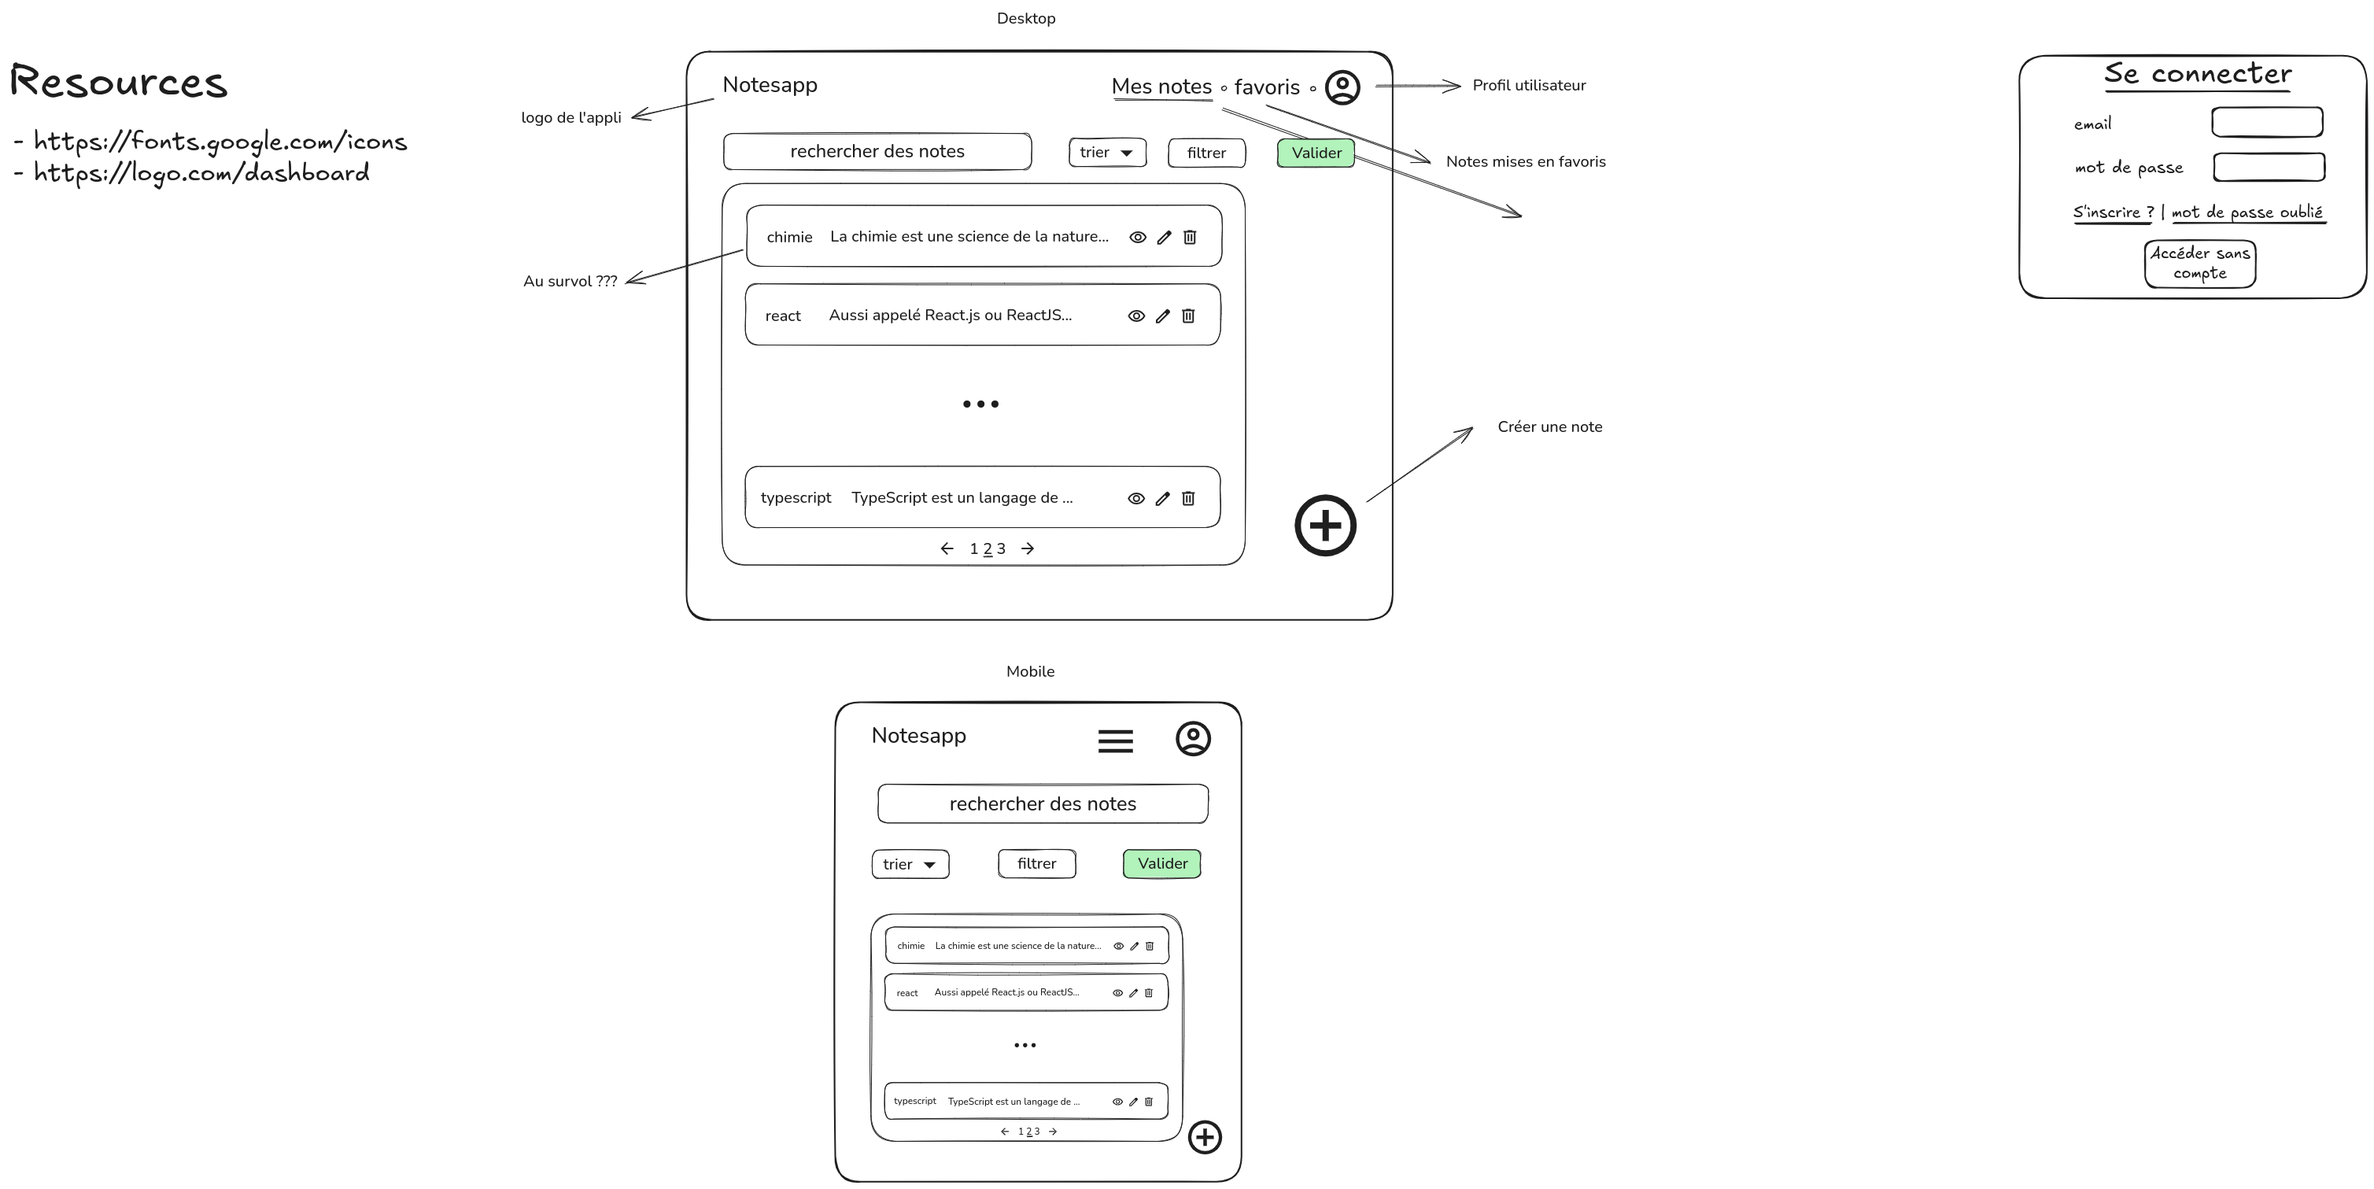
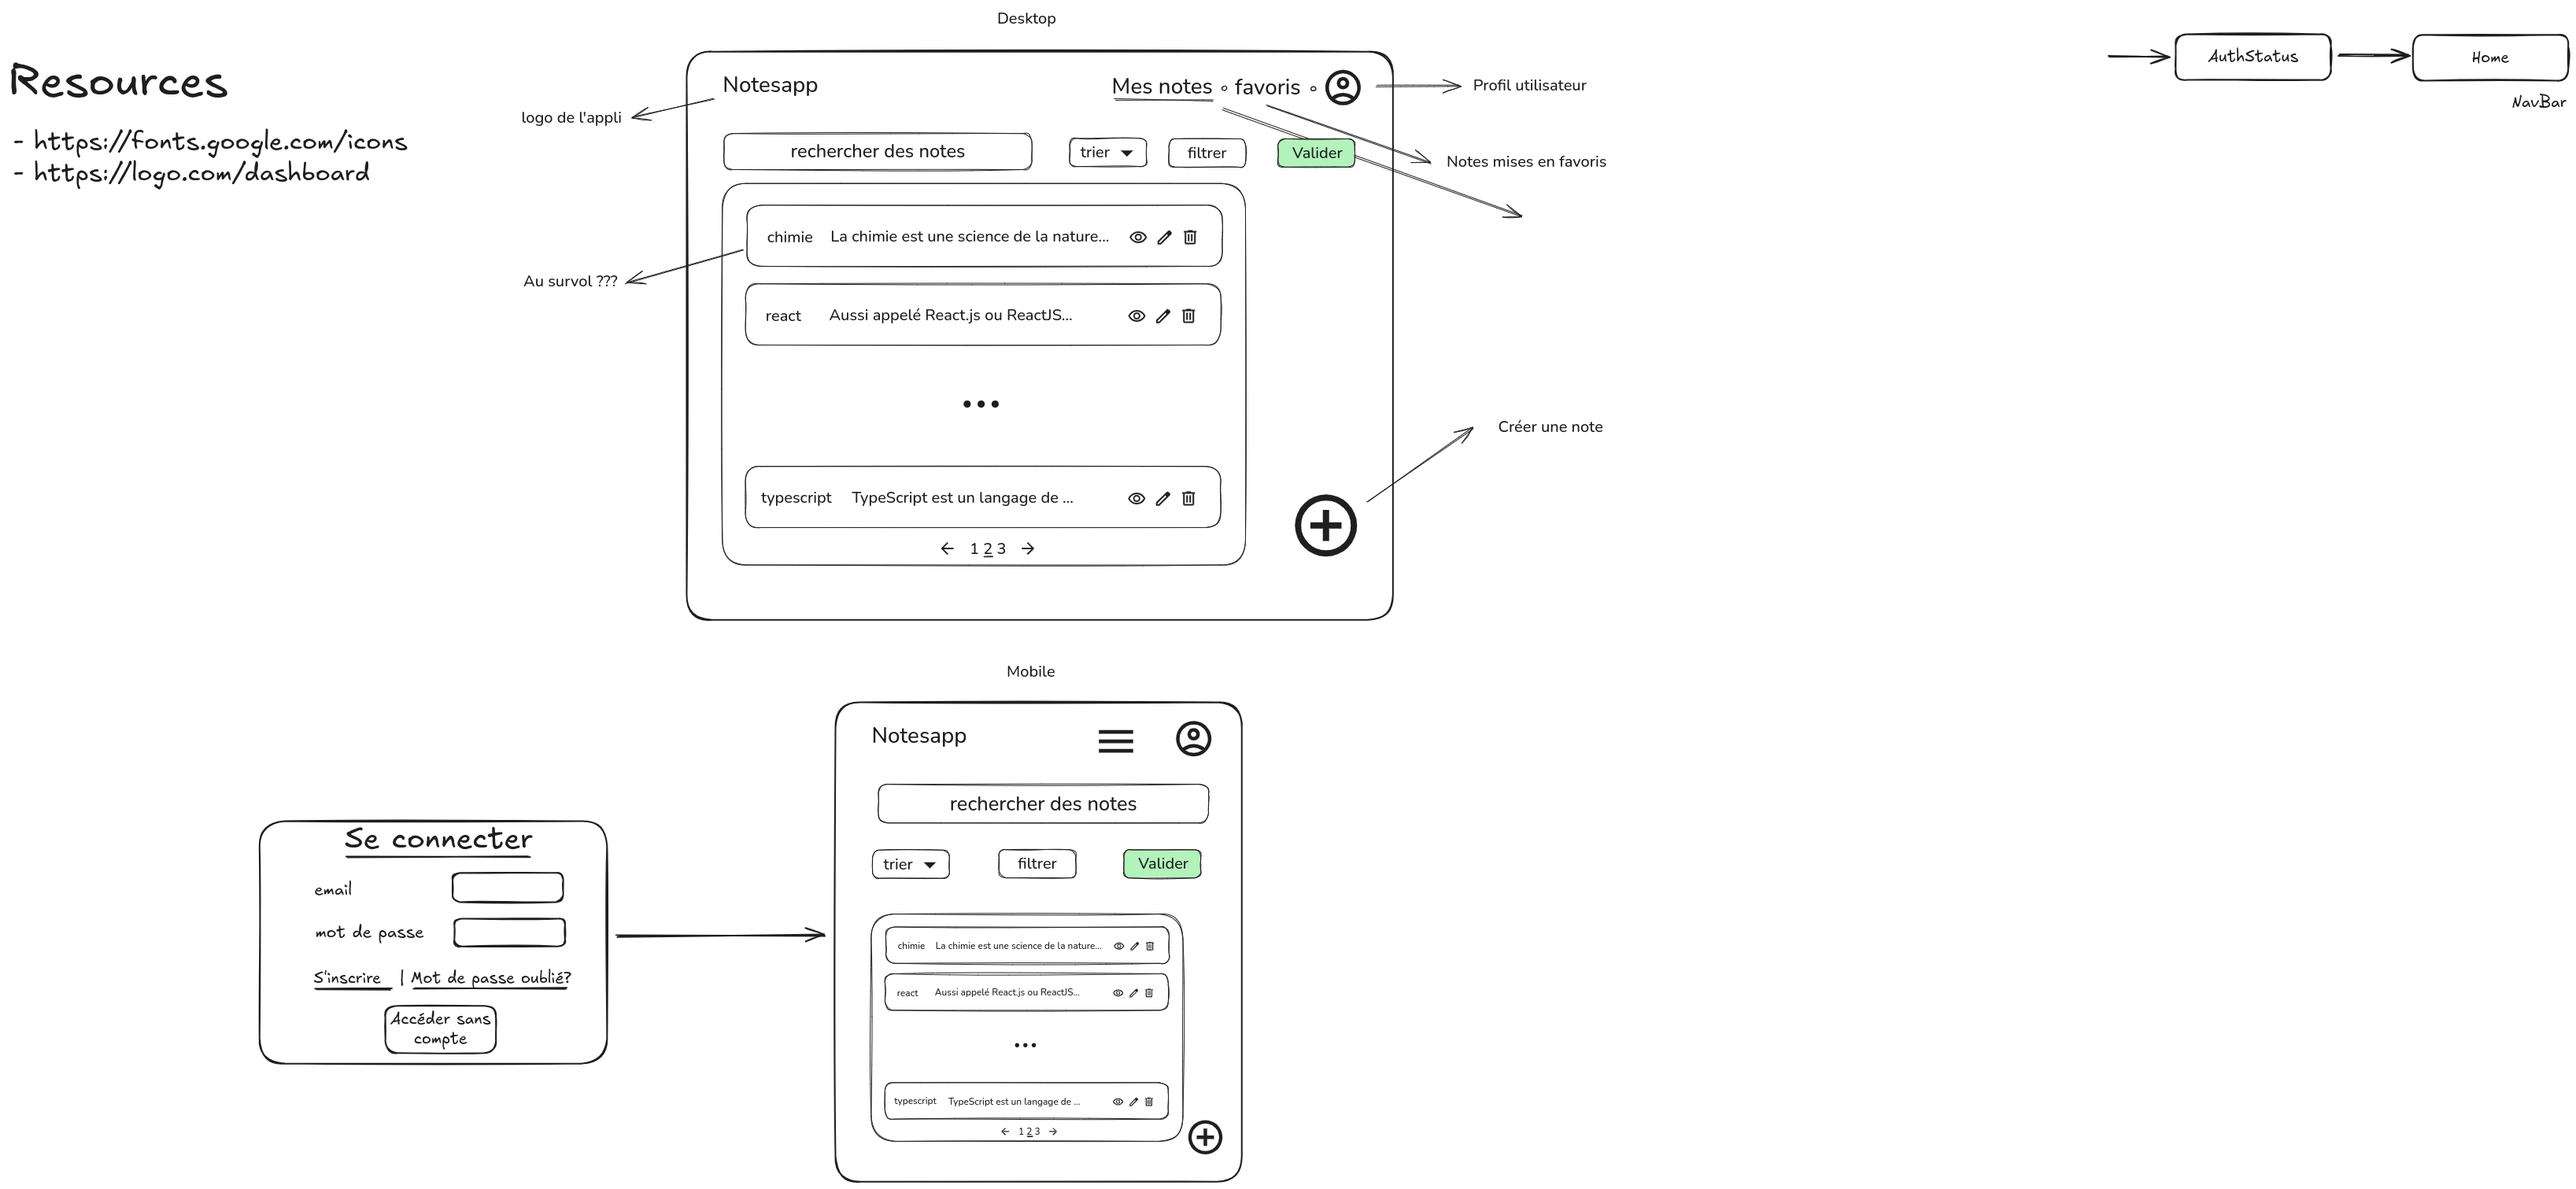
Style root page

diff --git a/src/auth/Login.tsx b/src/auth/Login.tsx
@@ -1,7 +1,46 @@
 import React from 'react';
+import { NavLink } from 'react-router-dom';
 
 const Login: React.FC = () => {
-  return (<h1>Login</h1>);
+  return (
+    <div className="relative py-1 sm:max-w-xl sm:mx-auto">
+      <div
+        className="absolute inset-0 bg-gradient-to-r from-cyan-400 to-sky-500 shadow-lg transform -skew-y-6 sm:skew-y-0 sm:-rotate-6 sm:rounded-3xl">
+      </div>
+
+      <div className="relative px-2 py-10 bg-white shadow-lg sm:rounded-3xl sm:p-20">
+        <div className="max-w-md mx-auto">
+          <div>
+            <h2 className="text-2xl font-semibold text-center">Se Connecter</h2>
+            <p className="mt-2 text-center text-sm text-gray-600 max-w md:text-lg">
+              Où <NavLink to="/register" className="font-medium text-blue-600 hover:text-blue-500">Créer un compte</NavLink>
+            </p>
+          </div>
+
+          <div className="divide-y divide-gray-200">
+            <div className="py-8 text-base leading-6 space-y-4 text-gray-700 sm:text-lg sm:leading-7">
+              <div className="relative">
+                <input autoComplete="off" id="email" name="email" type="text" className="peer placeholder-transparent h-10 w-full border-b-2 border-gray-300 text-gray-900 focus:outline-none focus:borer-rose-600" placeholder="Email address" />
+                <label htmlFor="email" className="absolute left-0 -top-3.5 text-gray-600 text-sm peer-placeholder-shown:text-base peer-placeholder-shown:text-gray-440 peer-placeholder-shown:top-2 transition-all peer-focus:-top-3.5 peer-focus:text-gray-600 peer-focus:text-sm">Addresse email</label>
+              </div>
+              <div className="relative">
+                <input autoComplete="off" id="password" name="password" type="password" className="peer placeholder-transparent h-10 w-full border-b-2 border-gray-300 text-gray-900 focus:outline-none focus:borer-rose-600" placeholder="Password" />
+                <label htmlFor="password" className="absolute left-0 -top-3.5 text-gray-600 text-sm peer-placeholder-shown:text-base peer-placeholder-shown:text-gray-440 peer-placeholder-shown:top-2 transition-all peer-focus:-top-3.5 peer-focus:text-gray-600 peer-focus:text-sm">Mot de passe</label>
+              </div>
+
+              <div className="relative flex justify-center">
+                <button className="bg-cyan-500 text-white rounded-md px-2 py-1 cursor-pointer">Se Connecter</button>
+              </div>
+
+              <div className="flex items-center justify-between">
+                <NavLink to='/forgot-password' className="md:text-xs font-medium text-blue-600 hover:text-blue-500">Mot de passe oublié?</NavLink>
+                <NavLink to='/home' className="md:text-xs font-medium text-blue-600 hover:text-blue-500">Accéder sans compte</NavLink>
+              </div>
+            </div>
+          </div>
+        </div>
+      </div>
+    </div>);
 };
 
 export default Login;

diff --git a/src/App.tsx b/src/App.tsx
@@ -1,6 +1,9 @@
 import React from "react";
 import { BrowserRouter as Router, Routes, Route } from "react-router-dom";
 import Root from "./components/ui/Root";
+import Login from './auth/Login'
+import Register from './auth/Register'
+import ForgotPassword from './auth/ForgotPassword'
 import Home from "./components/ui/Home";
 import Menu from "./components/ui/navbar/Menu";
 import Profile from "./components/ui/navbar/Profile";
@@ -11,9 +14,15 @@ export default function App() {
         <Router>
             <Routes>
                 <Route path="/" element={<Root />} />
+
+                <Route path="/login" element={<Login />} />
+                <Route path="/register" element={<Register />} />
+                <Route path="/forgot-password" element={<ForgotPassword />} />
+
                 <Route path="/home" element={<Home />} />
                 <Route path="/menu" element={<Menu />} />
                 <Route path="/profile" element={<Profile />} />
+
                 <Route path="*" element={<NoMatch />} />
             </Routes>
         </Router>

diff --git a/src/components/ui/Root.tsx b/src/components/ui/Root.tsx
@@ -1,18 +1,15 @@
 import React from 'react';
 import Login from '../../auth/Login'
-import Register from '../../auth/Register'
-import { NavLink } from 'react-router-dom';
 
 const Root: React.FC = () => {
     return (
-        <main>
-            <h1 className='px-4'>
-                Se connecter, s'inscrire, accéder sans compte
+        <main className='relative min-h-screen bg-gray-100 flex flex-col justify-center'>
+            <h1 className='absolute inset-0 text-2xl text-center mt-4  mx--4 my--3 px--4 py--6'>
+                Bienvenue sur <span className='font-semibold'>Notesapp</span>,
+                <br/> une application de prise de notes réactive.
             </h1>
 
             <Login />
-            <Register />
-            <NavLink to='/home'>Accéder sans compte</NavLink>
         </main>);
 }
 

diff --git a/src/auth/ForgotPassword.tsx b/src/auth/ForgotPassword.tsx
@@ -1,0 +1,7 @@
+import React from 'react';
+
+const ForgotPassword: React.FC = () => {
+  return (<h1>ForgotPassword</h1>);
+};
+
+export default ForgotPassword;
